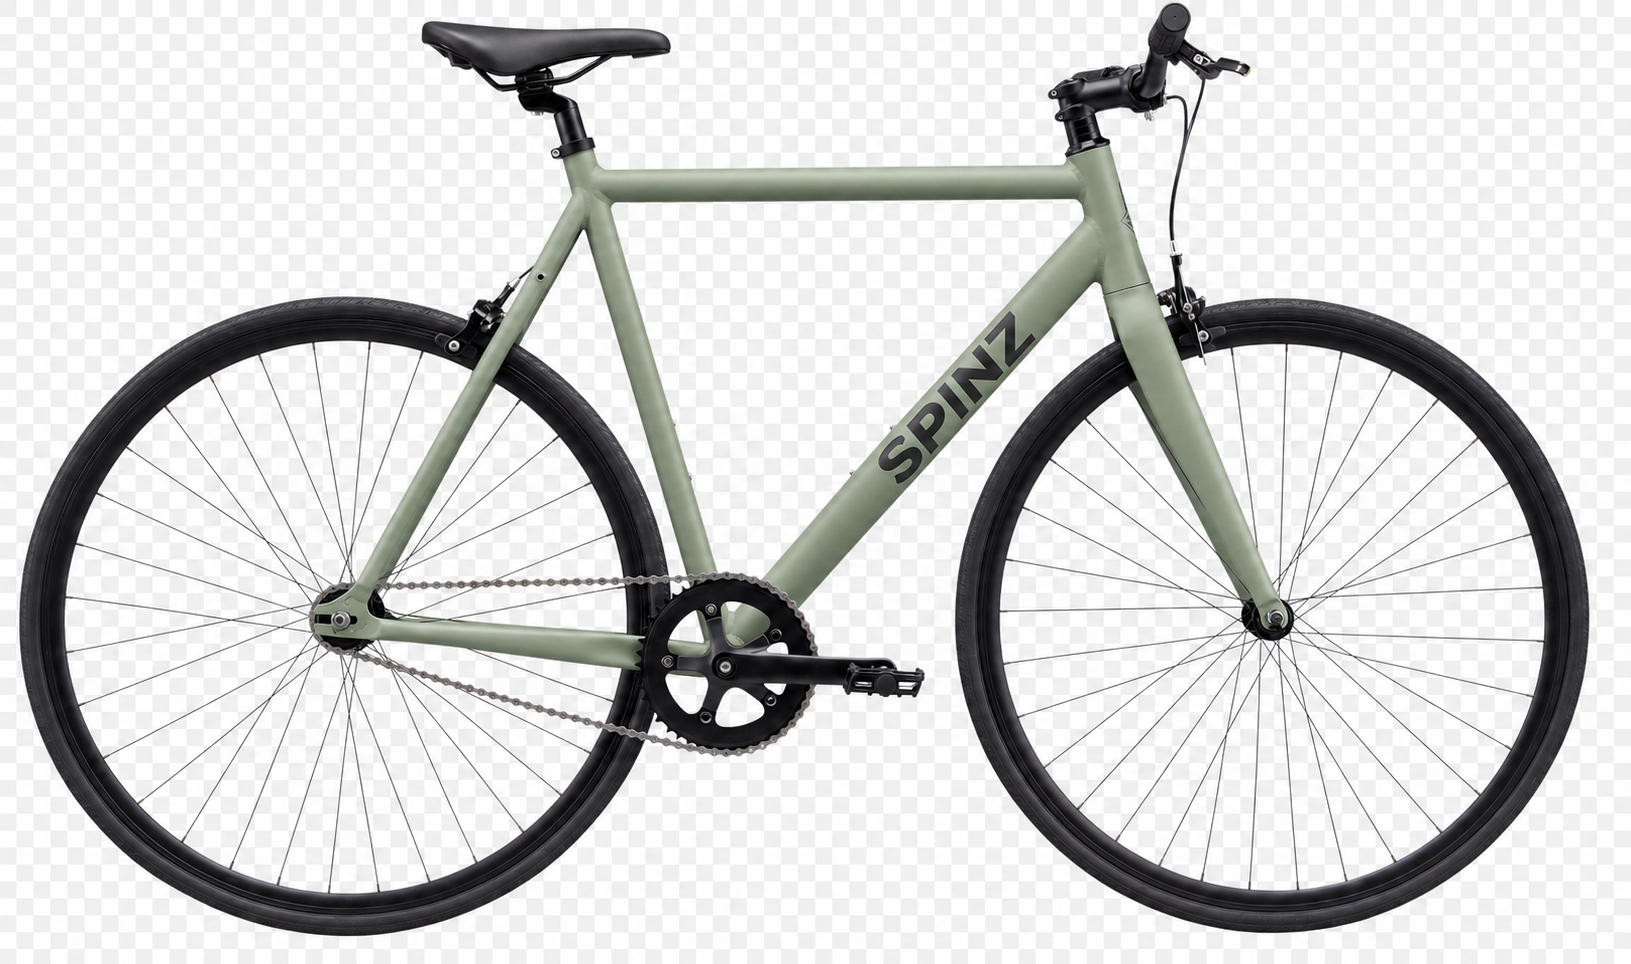
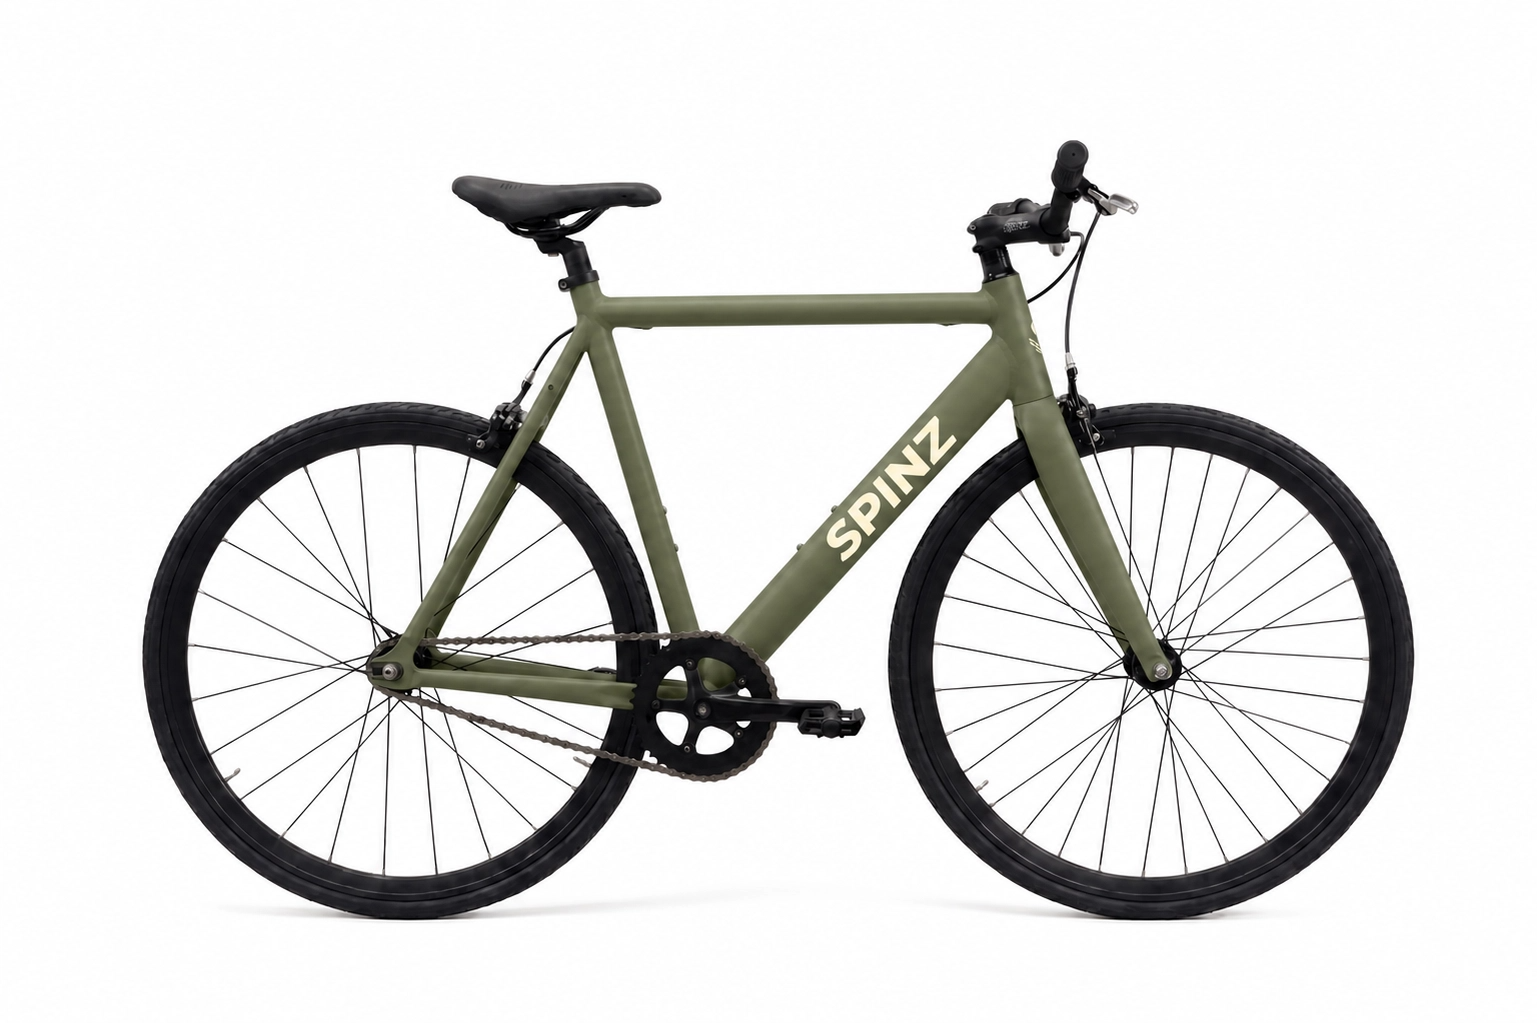
New catalog bike images + white image container background

diff --git a/src/components/Models.tsx b/src/components/Models.tsx
@@ -77,7 +77,7 @@ export default function Models() {
         <div className="flex flex-col lg:flex-row min-h-[80vh]">
 
           {/* RIGHT — image */}
-          <div className="lg:flex-1 flex items-center justify-center bg-[#F0EDE7] p-8 lg:p-16 order-1 lg:order-2 min-h-[50vw] lg:min-h-0" style={{ position: 'relative' }}>
+          <div className="lg:flex-1 flex items-center justify-center bg-white p-8 lg:p-16 order-1 lg:order-2 min-h-[50vw] lg:min-h-0" style={{ position: 'relative' }}>
             <AnimatePresence mode="wait">
               <motion.img
                 key={color.id}
